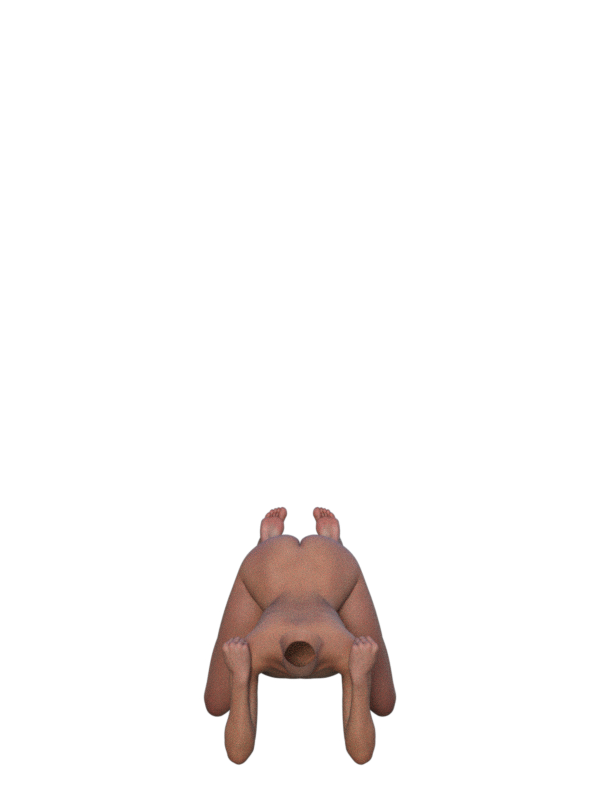
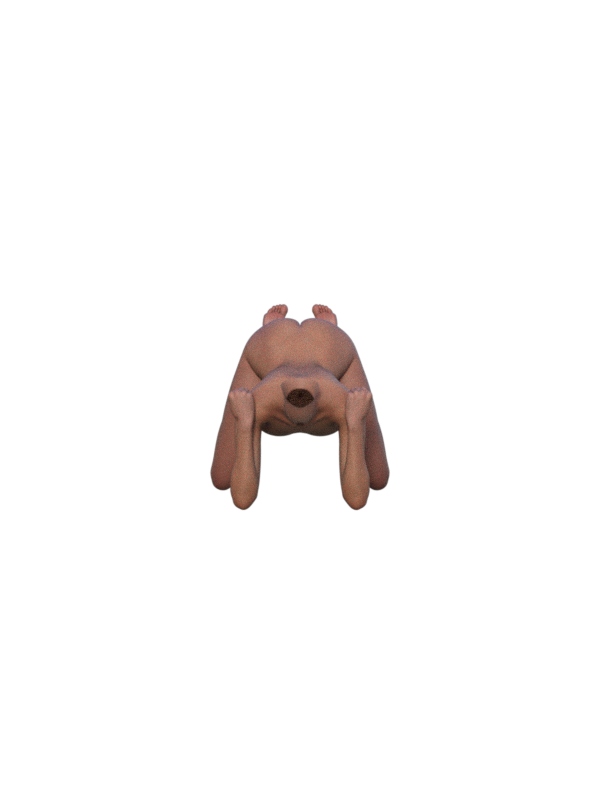
Show head

Changed region(s): [[0.33, 0.375, 0.66, 0.9688]]

diff --git a/client/src/character/service/CharacterLayerService.ts b/client/src/character/service/CharacterLayerService.ts
@@ -10,12 +10,16 @@ import {
 interface PoseConfig {
   iamgePathPart: string;
   order: number;
+  rootOffsetY?: number;
+  headOffsetY?: number;
 }
 
 const POSES_CONFIG: Record<AnyPose, PoseConfig> = {
   [FullBodyPose.PetSuit]: {
     iamgePathPart: "Pet suit",
     order: 50,
+    rootOffsetY: 288,
+    headOffsetY: 214,
   },
   [UpperBodyPose.Attention]: {
     iamgePathPart: "Attention",
@@ -28,14 +32,17 @@ const POSES_CONFIG: Record<AnyPose, PoseConfig> = {
   [LowerBodyPose.Stand]: {
     iamgePathPart: "Stand",
     order: 50,
+    rootOffsetY: 39,
   },
   [LowerBodyPose.SimpleKneel]: {
     iamgePathPart: "Simple kneel",
     order: 50,
+    rootOffsetY: 280,
   },
   [LowerBodyPose.WideKneel]: {
     iamgePathPart: "Wide kneel",
     order: 55,
+    rootOffsetY: 280,
   },
   [HeadPose.Normal]: {
     iamgePathPart: "Normal",
@@ -50,34 +57,53 @@ const POSES_CONFIG: Record<AnyPose, PoseConfig> = {
 export interface CharacterLayer {
   url: string;
   order: number;
-  yOffset?: number;
+  offsetY?: number;
 }
 
 export class CharacterLayerService {
   getCharacterLayers(character: Character): CharacterLayer[] {
     const characterPrefix = "Kiri";
     const layers: CharacterLayer[] = [];
+    const rootOffsetY = this.getRootOffset(
+      "fullBody" in character.pose
+        ? character.pose.fullBody
+        : character.pose.lowerBody,
+    );
     if ("fullBody" in character.pose) {
       layers.push({
-        url: `public/character/${characterPrefix} - ${characterLayerService.getImagePathPartForPose(
+        url: `public/character/${characterPrefix} - ${this.getImagePathPartForPose(
           character.pose.fullBody,
         )} - Body.png`,
-        order: characterLayerService.getOrderForPose(character.pose.fullBody),
+        order: this.getOrderForPose(character.pose.fullBody),
+        offsetY: rootOffsetY,
       });
     } else {
       layers.push({
-        url: `public/character/${characterPrefix} - ${characterLayerService.getImagePathPartForPose(
+        url: `public/character/${characterPrefix} - ${this.getImagePathPartForPose(
           character.pose.upperBody,
         )} - Upper body.png`,
-        order: characterLayerService.getOrderForPose(character.pose.upperBody),
+        order: this.getOrderForPose(character.pose.upperBody),
+        offsetY: rootOffsetY,
       });
       layers.push({
-        url: `public/character/${characterPrefix} - ${characterLayerService.getImagePathPartForPose(
+        url: `public/character/${characterPrefix} - ${this.getImagePathPartForPose(
           character.pose.lowerBody,
         )} - Lower body.png`,
-        order: characterLayerService.getOrderForPose(character.pose.lowerBody),
+        order: this.getOrderForPose(character.pose.lowerBody),
+        offsetY: rootOffsetY,
       });
     }
+    layers.push({
+      url: `public/character/${characterPrefix} - ${this.getImagePathPartForPose(
+        character.pose.head,
+      )} - Head.png`,
+      order: this.getOrderForPose(character.pose.head),
+      offsetY:
+        rootOffsetY +
+        ("fullBody" in character.pose
+          ? this.getHeadOffsetY(character.pose.fullBody)
+          : 0),
+    });
 
     layers.sort((a, b) => a.order - b.order);
 
@@ -90,6 +116,14 @@ export class CharacterLayerService {
 
   getOrderForPose(pose: AnyPose): number {
     return POSES_CONFIG[pose].order;
+  }
+
+  getRootOffset(pose: FullBodyPose | LowerBodyPose): number {
+    return (POSES_CONFIG[pose].rootOffsetY ?? 0) - 20;
+  }
+
+  getHeadOffsetY(pose: FullBodyPose): number {
+    return POSES_CONFIG[pose].headOffsetY ?? 0;
   }
 }
 

diff --git a/client/src/character/CharacterView.tsx b/client/src/character/CharacterView.tsx
@@ -1,12 +1,9 @@
 import { For } from "solid-js";
 import type { Character } from "./model/Character";
-import { characterLayerService } from "./service/CharacterLayerService";
-
-interface CharacterLayer {
-  url: string;
-  order: number;
-  yOffset?: number;
-}
+import {
+  characterLayerService,
+  type CharacterLayer,
+} from "./service/CharacterLayerService";
 
 export default function CharacterView(props: { character: Character }) {
   function getLayers(): CharacterLayer[] {
@@ -14,12 +11,13 @@ export default function CharacterView(props: { character: Character }) {
   }
 
   return (
-    <div class="relative h-[800px] w-[600px] bg-gray-100">
+    <div class="relative h-[800px] w-[600px] overflow-hidden bg-gray-100">
       <For each={getLayers()}>
         {(layer) => (
           <div
             class="absolute h-full w-full"
             style={{
+              top: `${layer.offsetY ?? 0}px`,
               "background-image": `url("${layer.url}")`,
             }}
           />

diff --git a/render-script/src/render.ts b/render-script/src/render.ts
@@ -176,18 +176,11 @@ interface RenderSettings {
   wearables: readonly WearableName[];
 }
 
-// renderCharacters({
-//   characters: CHARACTERS,
-//   bodyParts: BODY_PARTS,
-//   poses: POSES,
-//   wearables: WEARABLES_NAMES,
-// });
-
 renderCharacters({
   characters: CHARACTERS,
-  bodyParts: ["Head"],
-  poses: ["Wide open"],
-  wearables: ["Ball gag"],
+  bodyParts: BODY_PARTS,
+  poses: POSES,
+  wearables: WEARABLES_NAMES,
 });
 
 function renderCharacters(settings: RenderSettings) {
